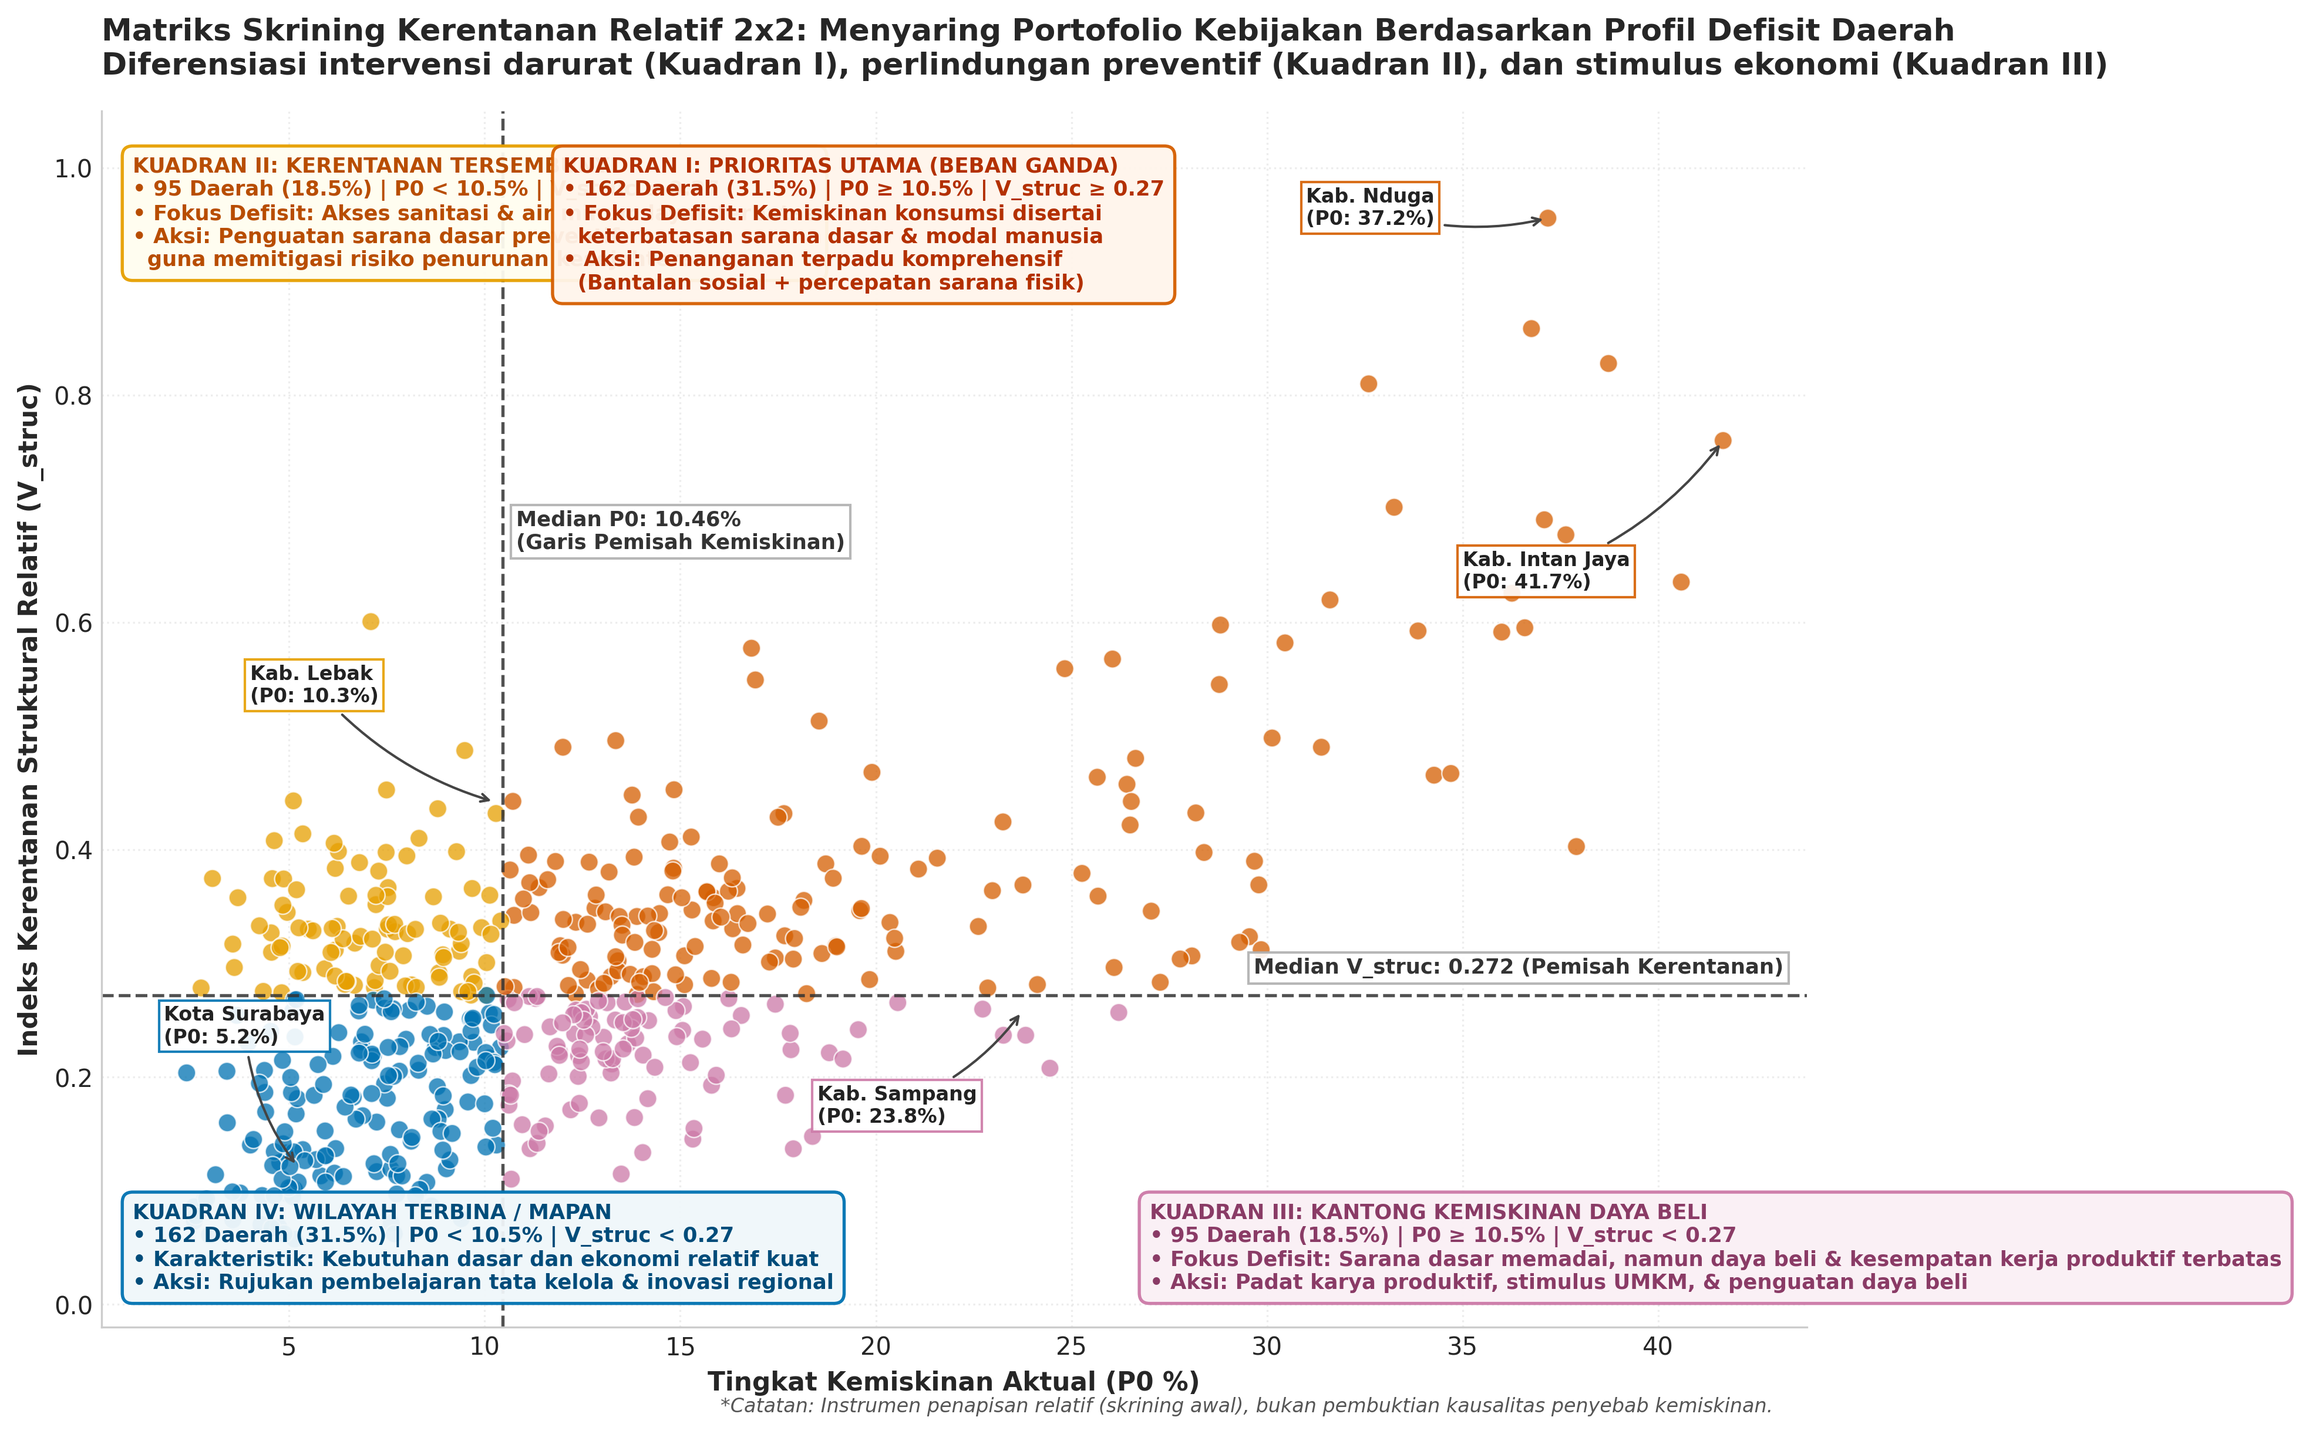
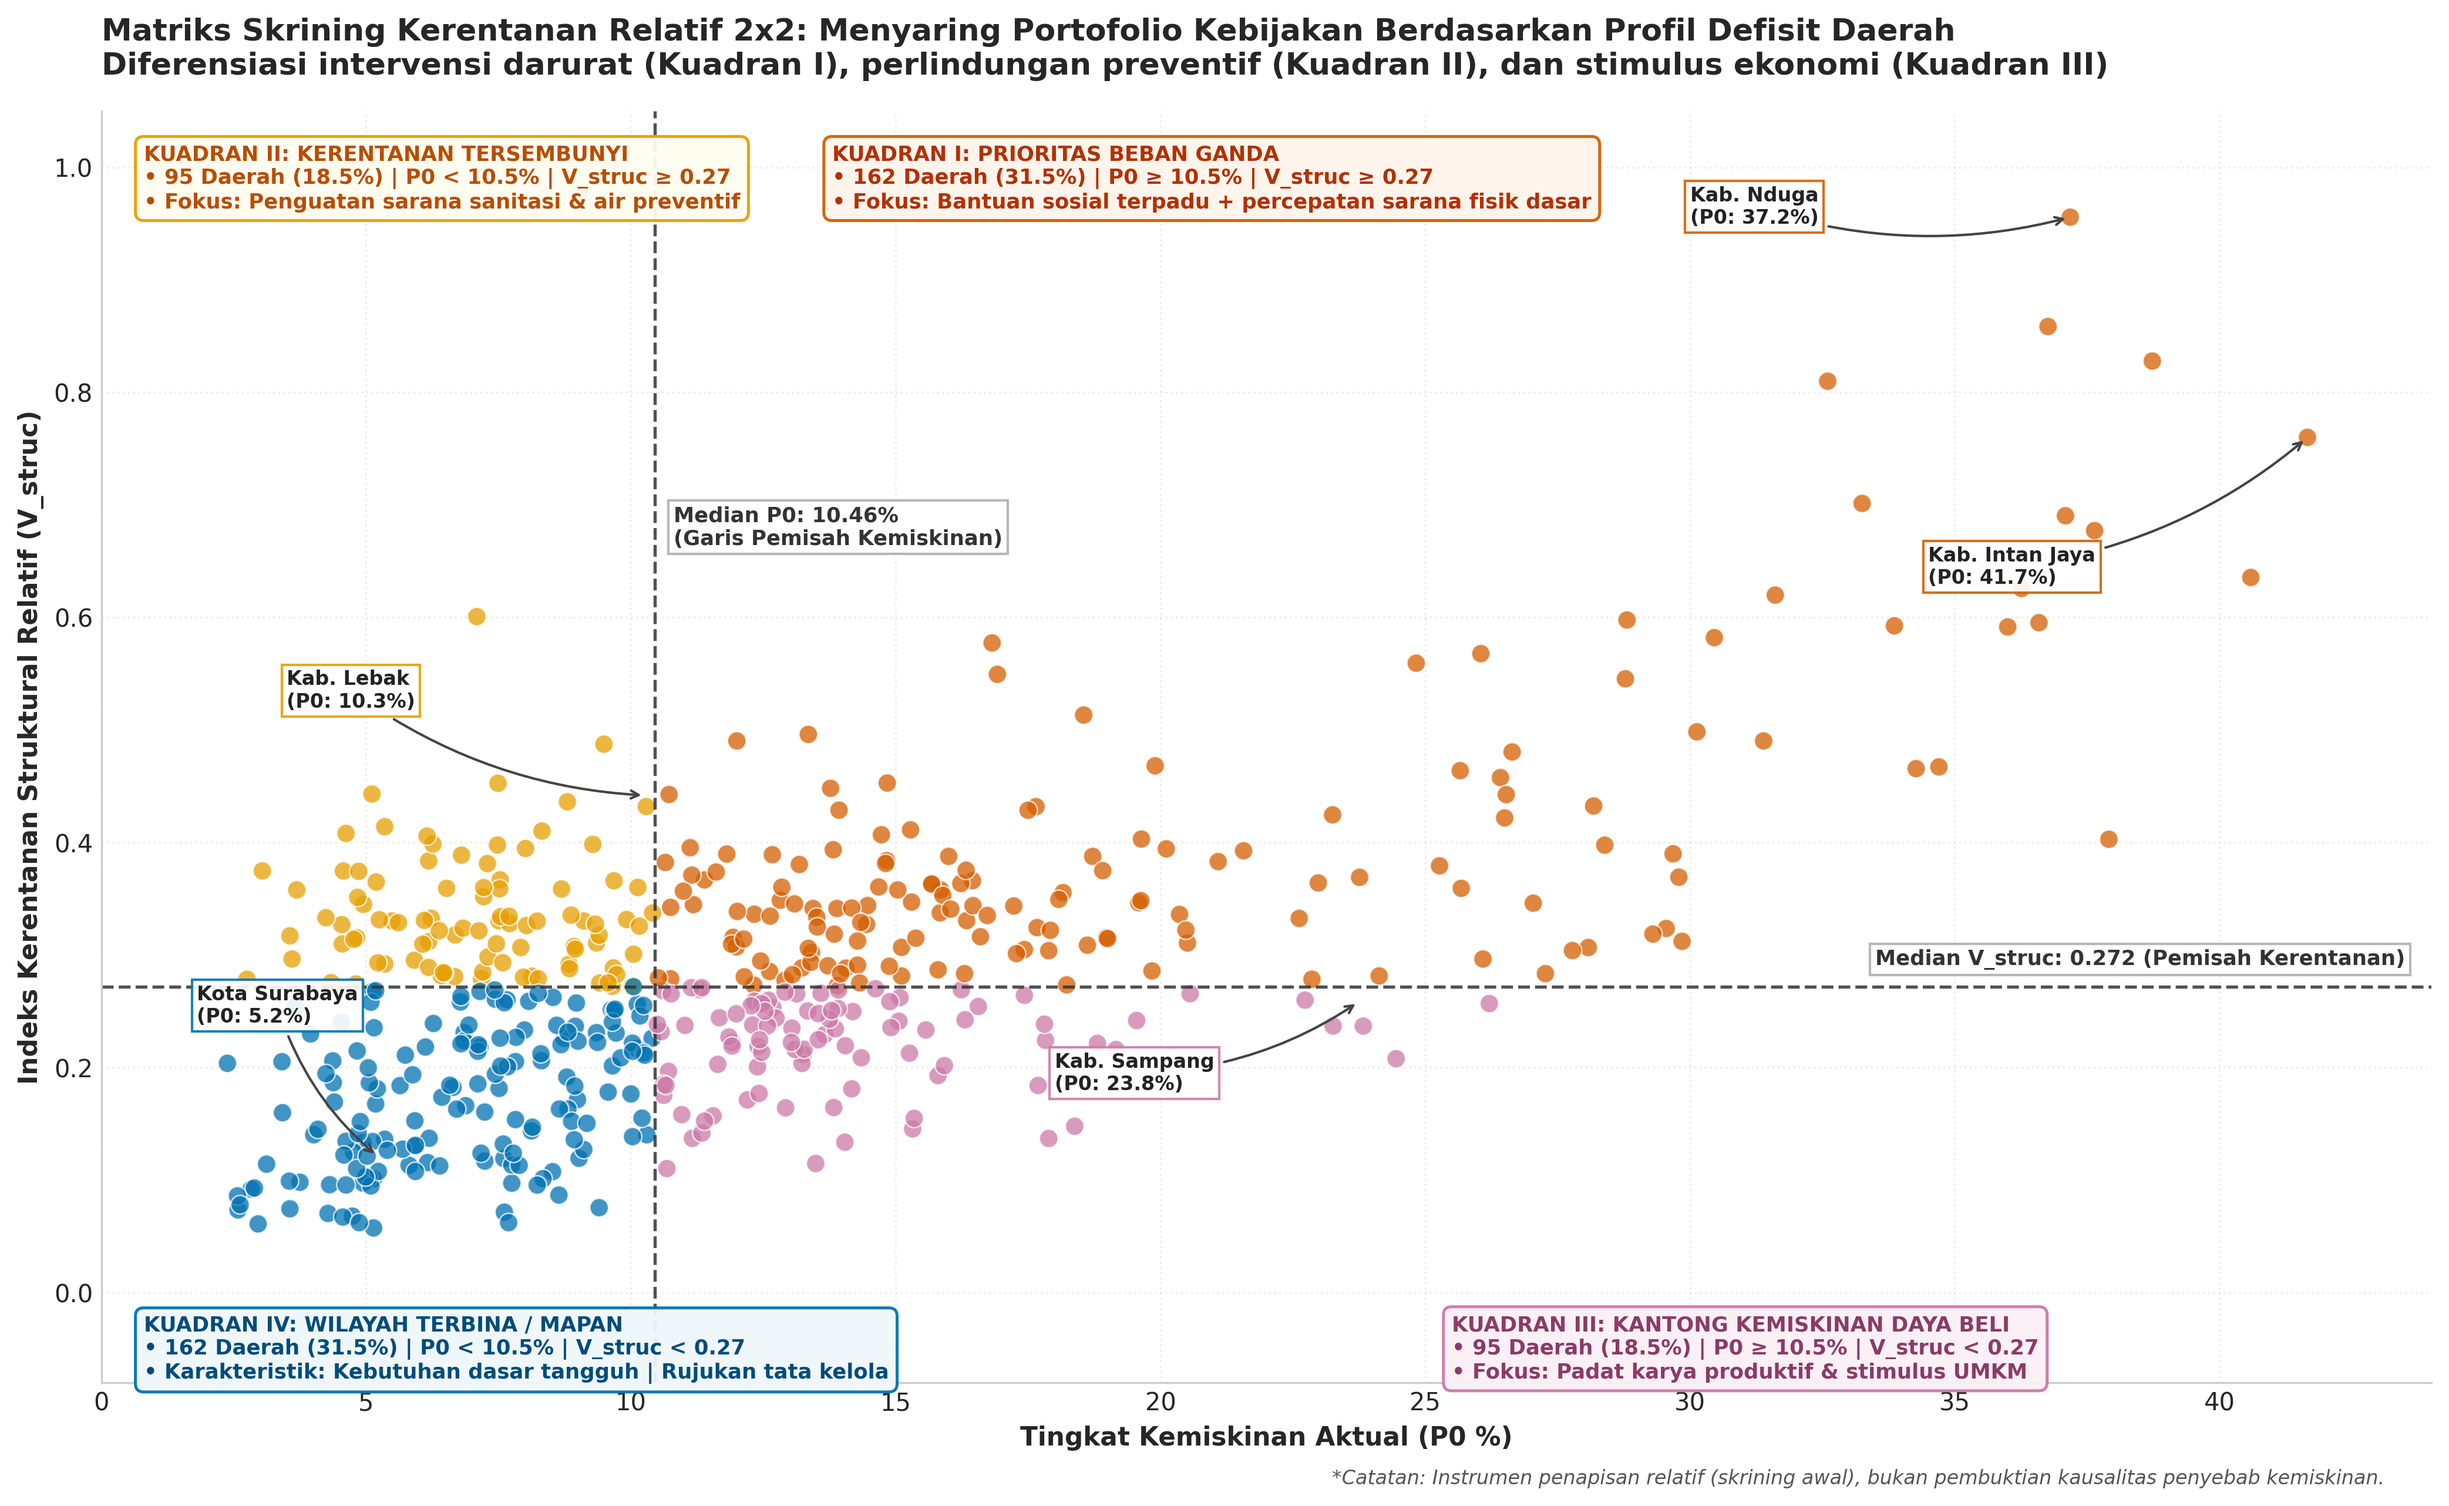
style(viz): eliminate text overlap in heatmap and declutter presentation figures

diff --git a/src/poverty_radar/visualization/plots.py b/src/poverty_radar/visualization/plots.py
@@ -194,7 +194,7 @@ def plot_multiseed_robustness(X_scaled: np.ndarray, baseline_labels: np.ndarray,
 def plot_pca_2d(df: pd.DataFrame, save_path: Optional[Path] = None) -> plt.Figure:
     """Figure 03: 2D PCA spatial projection with clean annotations and bottom legend."""
     set_chart_style()
-    fig, ax = plt.subplots(figsize=(12, 7.2), dpi=300)
+    fig, ax = plt.subplots(figsize=(13, 7.5), dpi=300)
 
     for cid in [0, 1, 2, 3]:
         sub = df[df['cluster_id'] == cid]
@@ -261,14 +261,14 @@ def plot_cluster_heatmap(df: pd.DataFrame, X_scaled: np.ndarray, save_path: Opti
     z_summary_display = z_summary.rename(columns={
         'avg_school_years': 'Lama Sekolah\n(RLS)',
         'life_expectancy': 'Harapan Hidup\n(UHH)',
-        'expenditure_per_capita': 'Pengeluaran\nRiil / Kapita',
+        'expenditure_per_capita': 'Pengeluaran Riil\nper Kapita',
         'sanitation_access_pct': 'Akses Sanitasi\nLayak',
-        'clean_water_access_pct': 'Akses Air\nMinum Layak',
+        'clean_water_access_pct': 'Akses Air Minum\nLayak',
         'unemployment_rate_tpt': 'Pengangguran\nTerbuka (TPT)',
-        'log_pdrb': 'Skala PDRB\n(Nilai Log1p)'
+        'log_pdrb': 'Skala PDRB\n(Log1p)'
     })
 
-    fig, ax = plt.subplots(figsize=(12.5, 5.8), dpi=300)
+    fig, ax = plt.subplots(figsize=(14.5, 6.2), dpi=300)
     sns.heatmap(
         z_summary_display,
         annot=True,
@@ -278,7 +278,7 @@ def plot_cluster_heatmap(df: pd.DataFrame, X_scaled: np.ndarray, save_path: Opti
         vmin=-2.6,
         vmax=1.6,
         cbar=True,
-        cbar_kws={'label': 'Z-Score Deviasi Relatif', 'shrink': 0.85},
+        cbar_kws={'label': 'Z-Score Deviasi Relatif terhadap Median', 'shrink': 0.85},
         linewidths=1.5,
         linecolor='white',
         annot_kws={'size': 11, 'weight': 'bold'},
@@ -287,10 +287,11 @@ def plot_cluster_heatmap(df: pd.DataFrame, X_scaled: np.ndarray, save_path: Opti
 
     ax.set_title('Profil Tipologi Klaster: Perbandingan Deviasi 7 Indikator Struktural terhadap Median Nasional\n'
                  'Nilai Z-Score relatif terhadap median nasional (Merah = Defisit Relatif di Bawah Median, Biru = Capaian Relatif di Atas Median)',
-                 fontsize=12.5, fontweight='bold', pad=18, loc='left')
+                 fontsize=12, fontweight='bold', pad=18, loc='left')
     ax.set_ylabel('')
-    plt.xticks(rotation=0, fontsize=10.5, fontweight='bold', ha='center')
-    plt.yticks(fontsize=10.5, fontweight='bold')
+    ax.tick_params(axis='x', pad=8)
+    plt.xticks(rotation=0, fontsize=9.5, fontweight='bold', ha='center')
+    plt.yticks(fontsize=10, fontweight='bold')
 
     if save_path:
         plt.savefig(save_path, dpi=300, bbox_inches='tight')
@@ -379,8 +380,11 @@ def plot_p0_stripplot(df: pd.DataFrame, save_path: Optional[Path] = None) -> plt
     medians = df.groupby('cluster_id')['poverty_rate_p0'].median()
     for cid, med in medians.items():
         ax.hlines(y=med, xmin=cid - 0.35, xmax=cid + 0.35, color='black', linewidth=3, zorder=5)
-        ax.text(cid, med + 1.2, f'Median: {med:.1f}%', ha='center', fontsize=9.5, fontweight='bold',
-                bbox=dict(boxstyle='round,pad=0.2', facecolor='white', edgecolor='#CCCCCC', alpha=0.9))
+        # Offset Klaster 2 downward to avoid collision with the 10.46% national median dashed line
+        y_text = med - 2.0 if cid == 1 else med + 1.2
+        ax.text(cid, y_text, f'Median: {med:.1f}%', ha='center', fontsize=9.5, fontweight='bold',
+                bbox=dict(boxstyle='round,pad=0.2', facecolor='white', edgecolor='#CCCCCC', alpha=0.9),
+                zorder=6)
 
     med_nat = df['poverty_rate_p0'].median()
     ax.axhline(med_nat, color='#7F7F7F', linestyle='--', linewidth=1.5, zorder=2)
@@ -410,7 +414,7 @@ def plot_p0_stripplot(df: pd.DataFrame, save_path: Optional[Path] = None) -> plt
 def plot_vulnerability_matrix_2x2(df: pd.DataFrame, save_path: Optional[Path] = None) -> plt.Figure:
     """Figure 06 (Slide 14): 2x2 Relative Structural Vulnerability Screening Matrix."""
     set_chart_style()
-    fig, ax = plt.subplots(figsize=(13, 8.2), dpi=300)
+    fig, ax = plt.subplots(figsize=(14.0, 8.6), dpi=300)
 
     med_p0 = df['poverty_rate_p0'].median()
     med_v  = df['vulnerability_score'].median()
@@ -422,7 +426,7 @@ def plot_vulnerability_matrix_2x2(df: pd.DataFrame, save_path: Optional[Path] = 
         hue='vulnerability_quadrant',
         palette=QUADRANT_PALETTE,
         alpha=0.75,
-        s=55,
+        s=58,
         edgecolor='white',
         linewidth=0.6,
         legend=False,
@@ -436,56 +440,49 @@ def plot_vulnerability_matrix_2x2(df: pd.DataFrame, save_path: Optional[Path] = 
             fontsize=8.5, color='#333333', fontweight='bold', va='center',
             bbox=dict(boxstyle='square,pad=0.25', facecolor='white', edgecolor='#B0B0B0', alpha=0.9))
 
-    ax.text(43.2, med_v + 0.015, f'Median V_struc: {med_v:.3f} (Pemisah Kerentanan)', 
+    ax.text(43.5, med_v + 0.015, f'Median V_struc: {med_v:.3f} (Pemisah Kerentanan)', 
             fontsize=8.5, color='#333333', fontweight='bold', ha='right', va='bottom',
             bbox=dict(boxstyle='square,pad=0.25', facecolor='white', edgecolor='#B0B0B0', alpha=0.9))
 
-    box_q1 = dict(boxstyle='round,pad=0.5', facecolor='#FFF5EB', edgecolor='#D55E00', linewidth=1.3, alpha=0.95)
-    box_q2 = dict(boxstyle='round,pad=0.5', facecolor='#FFFDF0', edgecolor='#E69F00', linewidth=1.3, alpha=0.95)
-    box_q3 = dict(boxstyle='round,pad=0.5', facecolor='#FAF0F5', edgecolor='#CC79A7', linewidth=1.3, alpha=0.95)
-    box_q4 = dict(boxstyle='round,pad=0.5', facecolor='#F0F7FA', edgecolor='#0072B2', linewidth=1.3, alpha=0.95)
+    box_q1 = dict(boxstyle='round,pad=0.4', facecolor='#FFF5EB', edgecolor='#D55E00', linewidth=1.2, alpha=0.95)
+    box_q2 = dict(boxstyle='round,pad=0.4', facecolor='#FFFDF0', edgecolor='#E69F00', linewidth=1.2, alpha=0.95)
+    box_q3 = dict(boxstyle='round,pad=0.4', facecolor='#FAF0F5', edgecolor='#CC79A7', linewidth=1.2, alpha=0.95)
+    box_q4 = dict(boxstyle='round,pad=0.4', facecolor='#F0F7FA', edgecolor='#0072B2', linewidth=1.2, alpha=0.95)
 
-    # Kuadran II: Top-Left
-    ax.text(1.0, 1.01, 
+    # Kuadran II: Top-Left (Whitespace x in [0.8, 9.5], y > 0.65)
+    ax.text(0.8, 1.02, 
             'KUADRAN II: KERENTANAN TERSEMBUNYI\n'
             '• 95 Daerah (18.5%) | P0 < 10.5% | V_struc ≥ 0.27\n'
-            '• Fokus Defisit: Akses sanitasi & air minum layak terbatas\n'
-            '• Aksi: Penguatan sarana dasar preventif\n'
-            '  guna memitigasi risiko penurunan kesejahteraan',
+            '• Fokus: Penguatan sarana sanitasi & air preventif',
             fontsize=8.5, fontweight='bold', color='#B84D00', bbox=box_q2, va='top')
 
-    # Kuadran I: Top-Center
-    ax.text(12.0, 1.01, 
-            'KUADRAN I: PRIORITAS UTAMA (BEBAN GANDA)\n'
+    # Kuadran I: Top-Center (Whitespace x in [13.8, 27], y > 0.62)
+    ax.text(13.8, 1.02, 
+            'KUADRAN I: PRIORITAS BEBAN GANDA\n'
             '• 162 Daerah (31.5%) | P0 ≥ 10.5% | V_struc ≥ 0.27\n'
-            '• Fokus Defisit: Kemiskinan konsumsi disertai\n'
-            '  keterbatasan sarana dasar & modal manusia\n'
-            '• Aksi: Penanganan terpadu komprehensif\n'
-            '  (Bantalan sosial + percepatan sarana fisik)',
+            '• Fokus: Bantuan sosial terpadu + percepatan sarana fisik dasar',
             fontsize=8.5, fontweight='bold', color='#B33000', bbox=box_q1, va='top')
 
-    # Kuadran IV: Bottom-Left
-    ax.text(1.0, 0.01, 
+    # Kuadran IV: Bottom-Left (Sub-band y in [-0.07, 0.0] clear of scatter dots)
+    ax.text(0.8, -0.02, 
             'KUADRAN IV: WILAYAH TERBINA / MAPAN\n'
             '• 162 Daerah (31.5%) | P0 < 10.5% | V_struc < 0.27\n'
-            '• Karakteristik: Kebutuhan dasar dan ekonomi relatif kuat\n'
-            '• Aksi: Rujukan pembelajaran tata kelola & inovasi regional',
-            fontsize=8.5, fontweight='bold', color='#004C7A', bbox=box_q4, va='bottom')
+            '• Karakteristik: Kebutuhan dasar tangguh | Rujukan tata kelola',
+            fontsize=8.5, fontweight='bold', color='#004C7A', bbox=box_q4, va='top')
 
-    # Kuadran III: Bottom-Right
-    ax.text(27.0, 0.01, 
+    # Kuadran III: Bottom-Right (Empty whitespace x in [25.5, 43.5])
+    ax.text(25.5, -0.02, 
             'KUADRAN III: KANTONG KEMISKINAN DAYA BELI\n'
             '• 95 Daerah (18.5%) | P0 ≥ 10.5% | V_struc < 0.27\n'
-            '• Fokus Defisit: Sarana dasar memadai, namun daya beli & kesempatan kerja produktif terbatas\n'
-            '• Aksi: Padat karya produktif, stimulus UMKM, & penguatan daya beli',
-            fontsize=8.5, fontweight='bold', color='#8A3B66', bbox=box_q3, va='bottom')
+            '• Fokus: Padat karya produktif & stimulus UMKM',
+            fontsize=8.5, fontweight='bold', color='#8A3B66', bbox=box_q3, va='top')
 
     benchmark_points = [
-        ('Kab. Nduga', 37.18, 0.9557, (31.0, 0.95), '#D55E00'),
-        ('Kab. Intan Jaya', 41.66, 0.7600, (35.0, 0.63), '#D55E00'),
-        ('Kab. Sampang', 23.76, 0.2589, (18.5, 0.16), '#CC79A7'),
-        ('Kota Surabaya', 5.23, 0.1205, (1.8, 0.23), '#0072B2'),
-        ('Kab. Lebak', 10.29, 0.4418, (4.0, 0.53), '#E69F00'),
+        ('Kab. Nduga', 37.18, 0.9557, (30.0, 0.95), '#D55E00'),
+        ('Kab. Intan Jaya', 41.66, 0.7600, (34.5, 0.63), '#D55E00'),
+        ('Kab. Sampang', 23.76, 0.2589, (18.0, 0.18), '#CC79A7'),
+        ('Kota Surabaya', 5.23, 0.1205, (1.8, 0.24), '#0072B2'),
+        ('Kab. Lebak', 10.29, 0.4418, (3.5, 0.52), '#E69F00'),
     ]
     for name, px, py, (tx, ty), col in benchmark_points:
         ax.annotate(
@@ -504,10 +501,11 @@ def plot_vulnerability_matrix_2x2(df: pd.DataFrame, save_path: Optional[Path] = 
                  fontsize=12.5, fontweight='bold', pad=15, loc='left')
     ax.set_xlabel('Tingkat Kemiskinan Aktual (P0 %)', fontsize=10.5, fontweight='bold')
     ax.set_ylabel('Indeks Kerentanan Struktural Relatif (V_struc)', fontsize=10.5, fontweight='bold')
-    ax.set_xlim(0.2, 43.8)
-    ax.set_ylim(-0.02, 1.05)
+    ax.set_xlim(0.0, 44.0)
+    ax.set_ylim(-0.08, 1.05)
+    ax.set_yticks([0.0, 0.2, 0.4, 0.6, 0.8, 1.0])
     ax.grid(True, linestyle=':', alpha=0.35)
-    ax.text(0.98, -0.07, '*Catatan: Instrumen penapisan relatif (skrining awal), bukan pembuktian kausalitas penyebab kemiskinan.', transform=ax.transAxes, fontsize=8, fontstyle='italic', color='#555555', ha='right')
+    ax.text(0.98, -0.08, '*Catatan: Instrumen penapisan relatif (skrining awal), bukan pembuktian kausalitas penyebab kemiskinan.', transform=ax.transAxes, fontsize=8, fontstyle='italic', color='#555555', ha='right')
     ax.spines['top'].set_visible(False)
     ax.spines['right'].set_visible(False)
 
